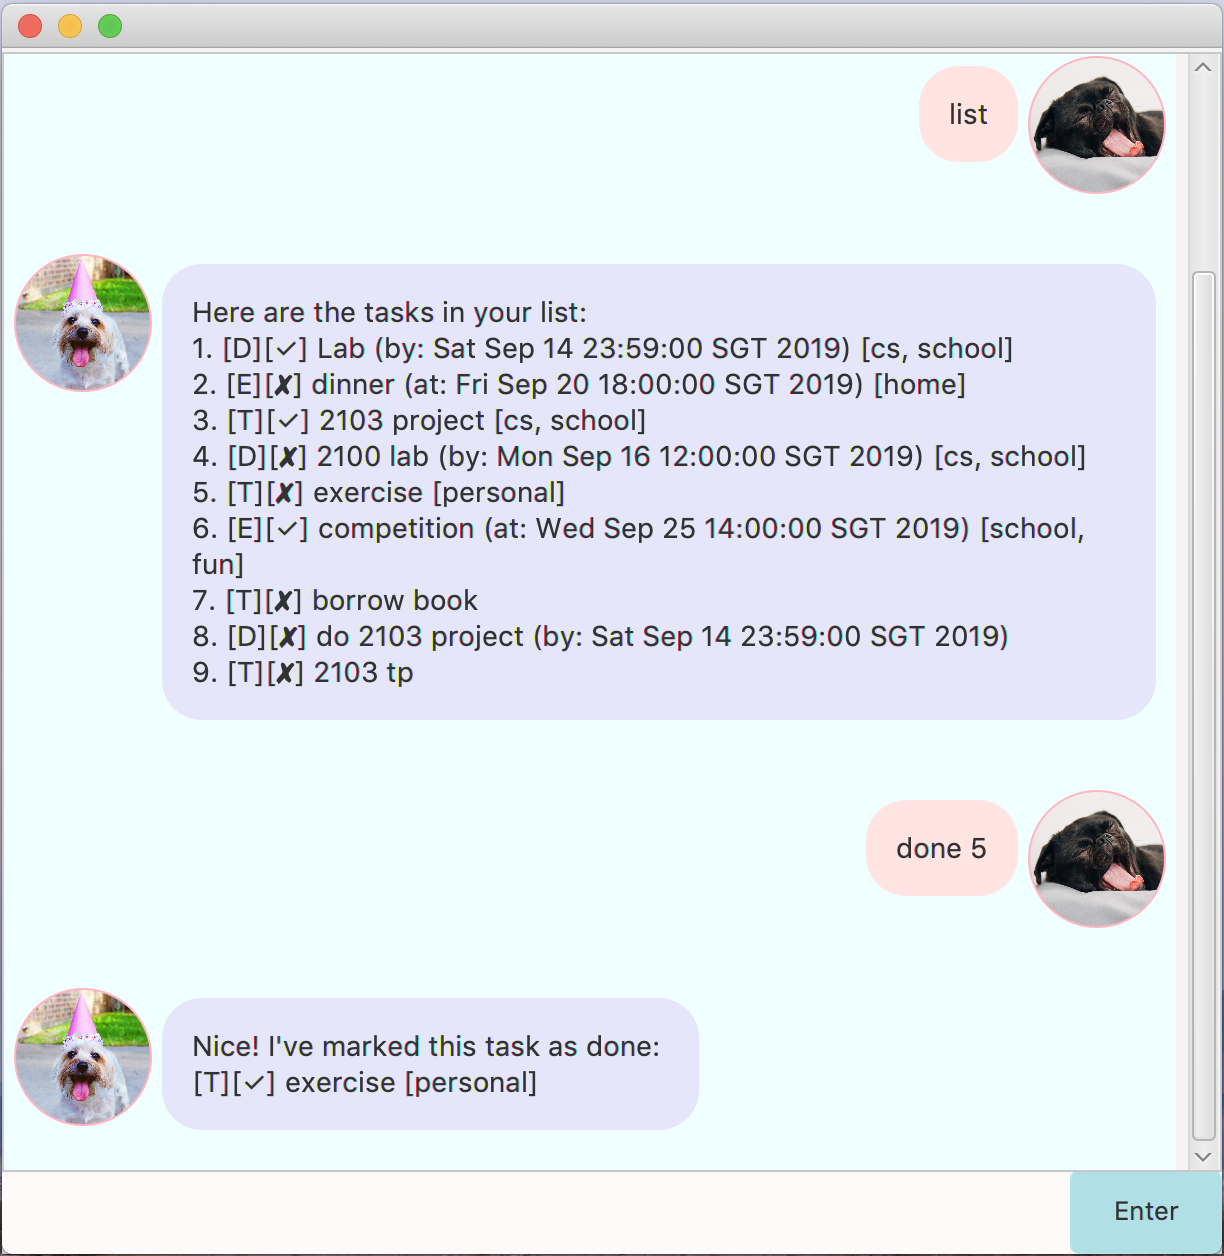
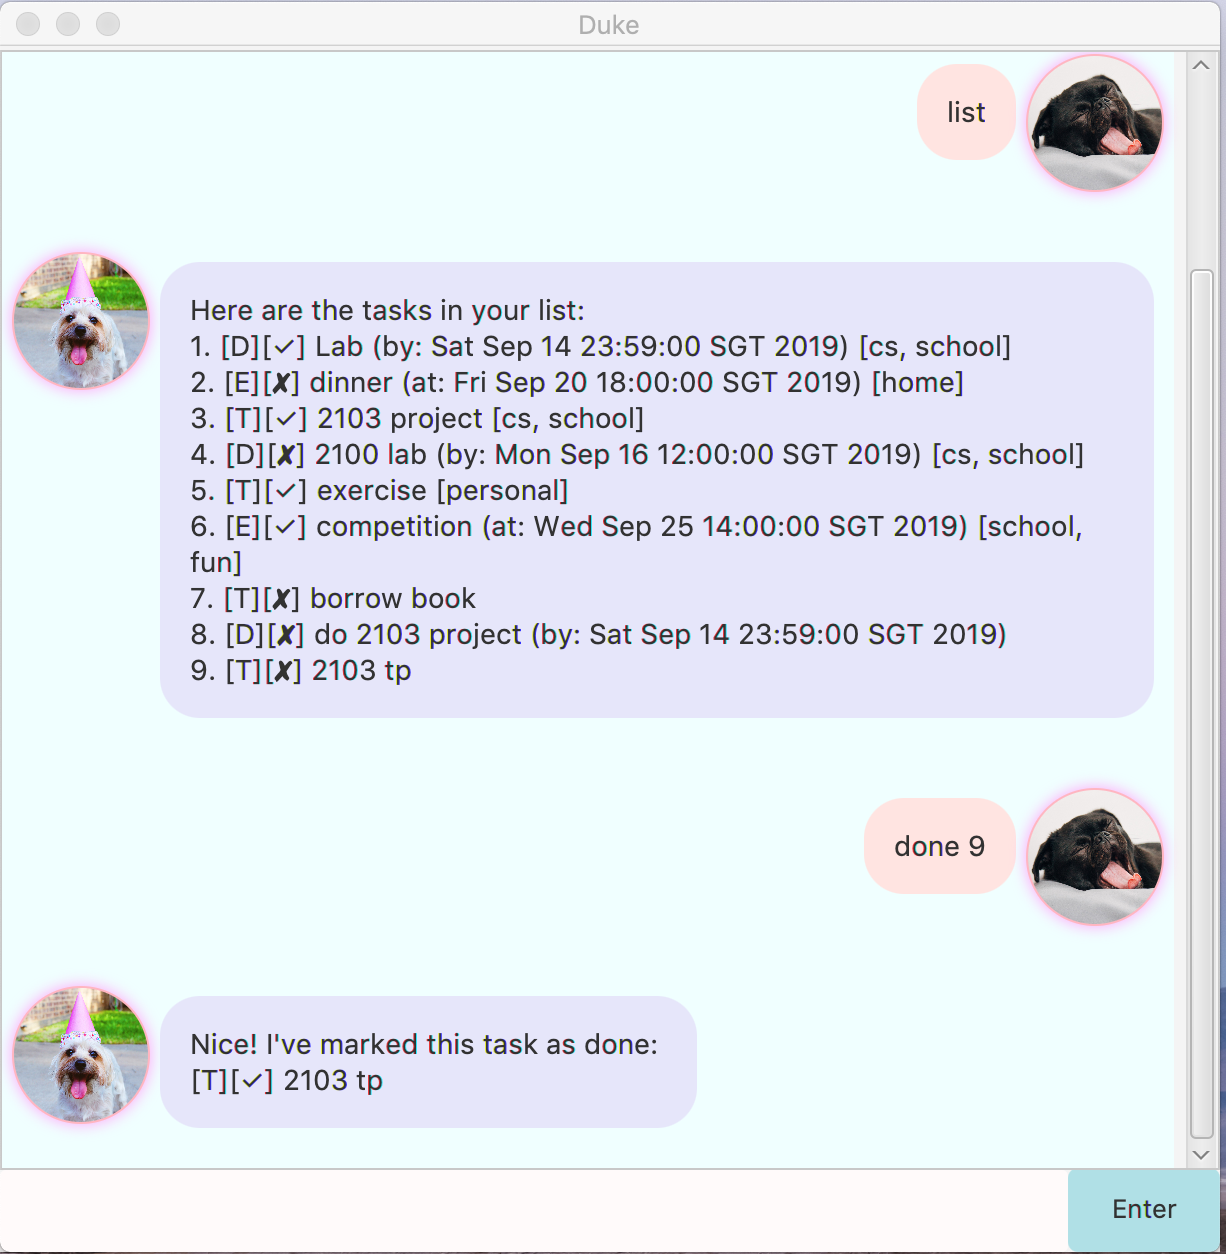
change Ui.png and added some effects to fxml

diff --git a/src/main/java/duke/ui/Main.java b/src/main/java/duke/ui/Main.java
@@ -23,6 +23,8 @@ public class Main extends Application {
             AnchorPane ap = fxmlLoader.load();
             Scene scene = new Scene(ap);
             stage.setScene(scene);
+            stage.setTitle("Duke");
+            stage.setResizable(false);
             fxmlLoader.<MainWindow>getController().setDuke(duke);
             stage.show();
         } catch (IOException e) {
